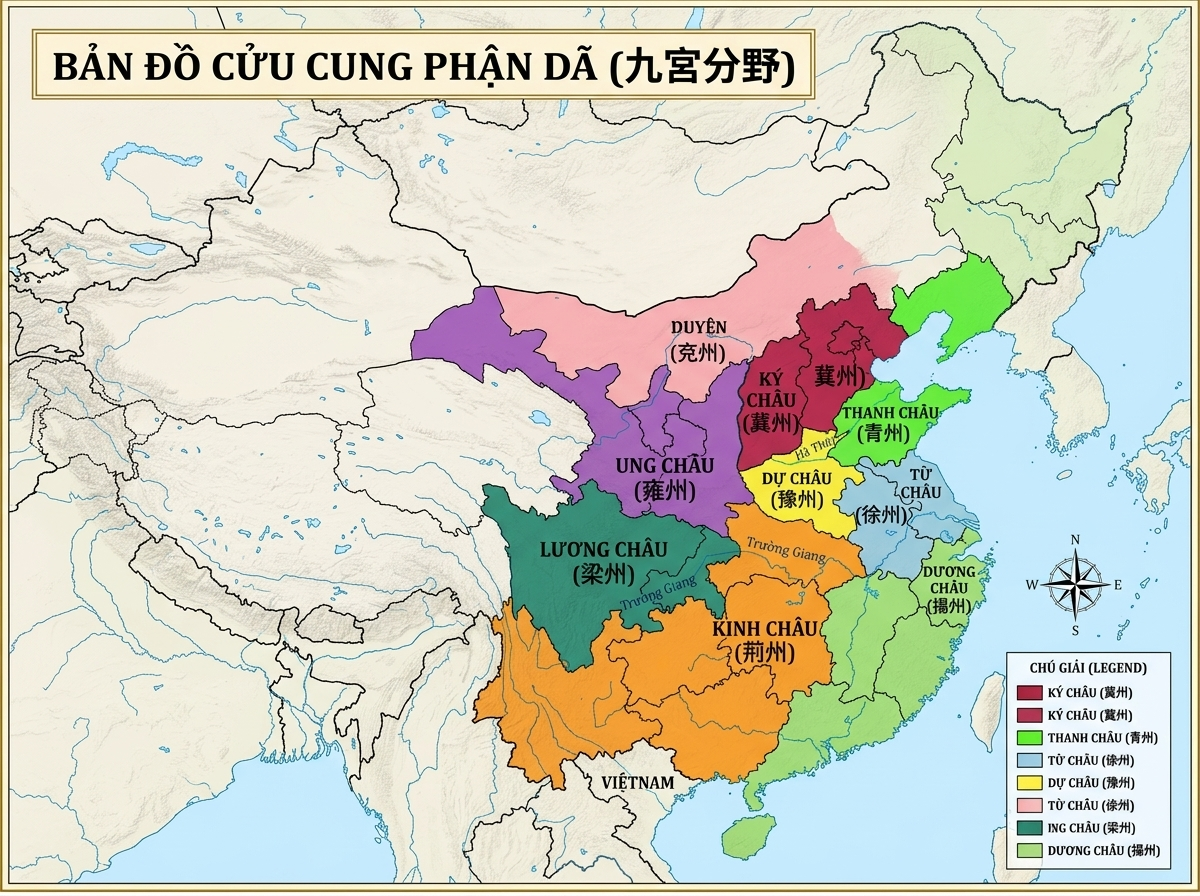
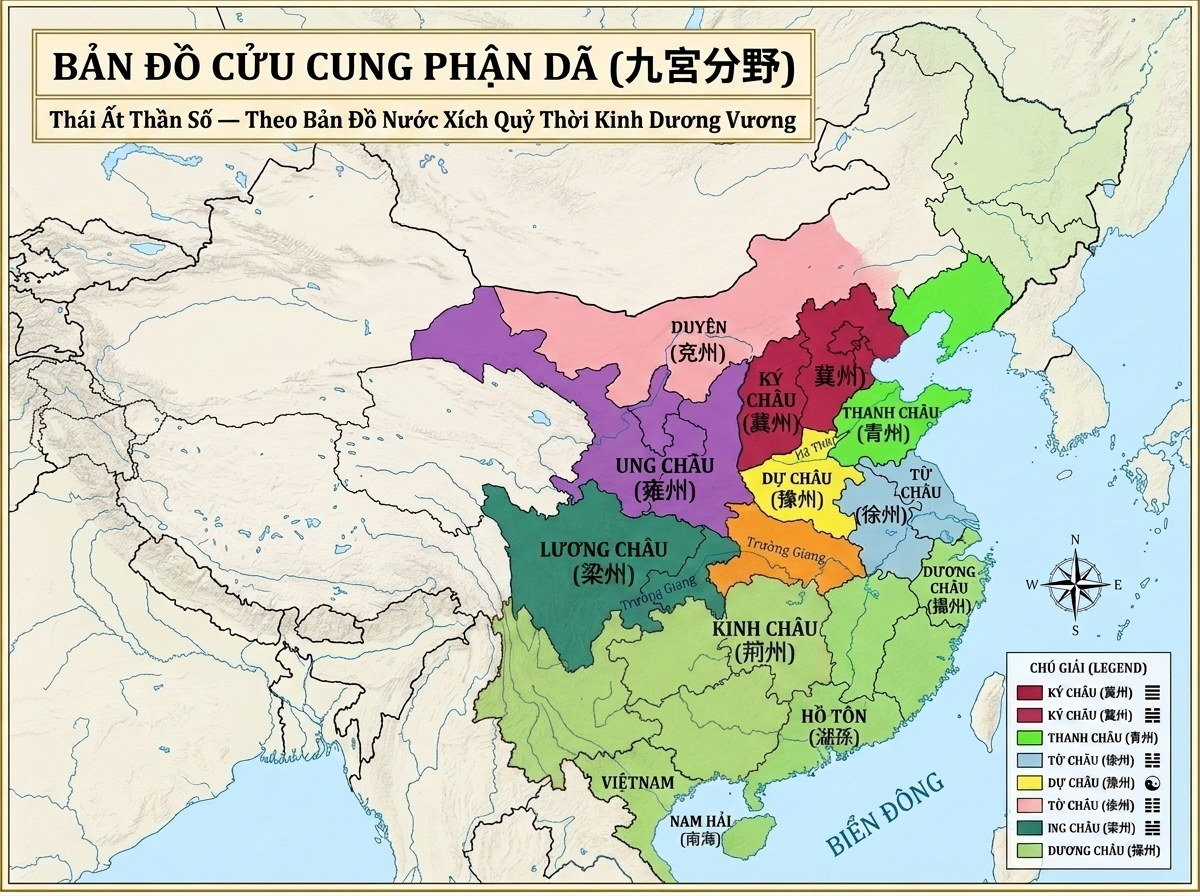
Update Cuu Chau map v2: Add Ho Ton (湖孫) region to Cung 9 Ton Duong Chau per Bach Viet/Xich Quy historical sources

diff --git a/js/phan_da_map.js b/js/phan_da_map.js
@@ -100,8 +100,8 @@ const PHAN_DA_MAP_DATA = [
         chauName: "Dương Châu",
         chauHan: "揚州",
         direction: "Đông Nam",
-        ancientInfo: "Thời cổ gọi là Hoang Phục. Sách Vũ Cống viết: 'Dương Châu là lãnh thổ của Bách Việt ở phía nam'.",
-        modernInfo: "Bao gồm thành phố Thượng Hải, tỉnh Giang Tô, tỉnh Triết Giang, tỉnh Phúc Kiến, tỉnh Quảng Đông.",
+        ancientInfo: "Thời cổ gọi là Hoang Phục. Sách Vũ Cống viết: 'Dương Châu là lãnh thổ của Bách Việt ở phía nam'. Bao gồm cả vùng Hồ Tôn (湖孫) ở phía Nam, thuộc phạm vi lãnh thổ nước Xích Quỷ thời Kinh Dương Vương.",
+        modernInfo: "Bao gồm thành phố Thượng Hải, tỉnh Giang Tô, tỉnh Triết Giang, tỉnh Phúc Kiến, tỉnh Quảng Đông, và vùng Hồ Tôn (湖孫) — khu vực phía Nam lãnh thổ Bách Việt tại vùng Nam Hải.",
         color: "#2ecc71"
     }
 ];
@@ -114,7 +114,7 @@ function initPhanDaMap() {
     // Main AI Map Image
     let mapHtml = `
         <div class="pd-map-image-wrapper">
-            <img src="images/cuu_chau_phan_da_map.jpg?v=4.8.0" 
+            <img src="images/cuu_chau_phan_da_map.jpg?v=4.9.0" 
                  alt="Bản Đồ Cửu Cung Phận Dã - 9 Châu Trung Quốc Cổ Đại" 
                  class="pd-map-image"
                  loading="lazy" />
